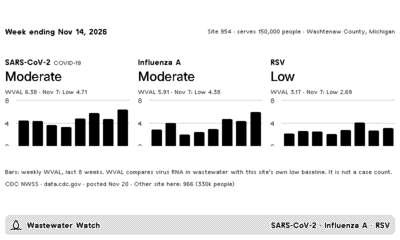
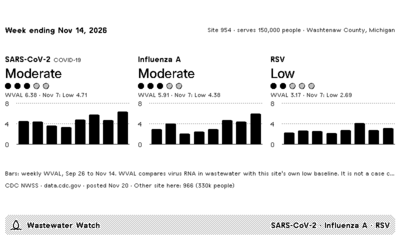
Wastewater Watch: apply TRMNL review fixes (#3)
- State select: exact label/value pairs, and the polling URL turns "_"
  into spaces, so multi-word states (New York, District of Columbia) work.
- X portrait: lg:portrait:value--large on categories, lg:portrait:h--96
  on charts.
- Bars caption: data-clamp-lg="2" so it shows in full on X.
- History is a fixed 8-week window; unreported weeks are empty slots.
- DC place name no longer reads "District of Columbia County".
- Updated previews, added X portrait preview.

Claude-Session: https://claude.ai/code/session_01MHabYTfQa44mtgodQZb3sV

diff --git a/wastewater-watch/transform.js b/wastewater-watch/transform.js
@@ -40,6 +40,7 @@ function dayNum(d) {
   var m = /^(\d{4})-(\d{2})-(\d{2})/.exec(d || "");
   return m ? Math.floor(Date.UTC(+m[1], +m[2] - 1, +m[3]) / 86400000) : NaN;
 }
+function isoDay(n) { return new Date(n * 86400000).toISOString().slice(0, 10); }
 function siteNum(s) { return String(s || "").replace(/^ID:\s*/i, "").trim(); }
 function popFull(p) {
   var n = Math.round(parseFloat(p));
@@ -77,9 +78,10 @@ function transform(input) {
   input = input || {};
   var f = fields(input);
   var county = String(f.county || "Washtenaw").trim();
-  var state = titleCase(String(f.state || "Michigan").trim());
+  var state = titleCase(String(f.state || "Michigan").replace(/_/g, " ").trim());
   var wantSite = siteNum(f.site_id || "");
-  var place = county + (/\b(county|parish|borough)$/i.test(county) ? "" : " County") + ", " + state;
+  var place = county.toLowerCase() === state.toLowerCase() ? state :
+    county + (/\b(county|parish|borough)$/i.test(county) ? "" : " County") + ", " + state;
 
   var t = input.trmnl || {};
   var offset = parseInt((t.user && t.user.utc_offset) || 0, 10) || 0;   // seconds
@@ -138,9 +140,15 @@ function transform(input) {
     var cat = cur ? String(cur.site_wval_category || "").trim() : "";
     var level = LADDER.indexOf(cat.toLowerCase()) + 1;   // 0 = not one of the five levels
     var prev = pr[1] || null;
-    var hist = pr.slice(0, HISTORY_WEEKS).reverse()
-      .filter(function (r) { return r.site_wval !== undefined && r.site_wval !== null && r.site_wval !== ""; })
-      .map(function (r) { return [pretty(r.week_end, false), parseFloat(r.site_wval)]; });
+    // Fixed 8-week calendar window ending at the site's newest week; a week CDC has no value for stays null (an empty slot).
+    var hist = [];
+    for (var k = HISTORY_WEEKS - 1; k >= 0; k--) {
+      var d = isoDay(dayNum(week) - 7 * k), hit = null;
+      pr.forEach(function (r) { if (String(r.week_end).slice(0, 10) === d) hit = r; });
+      var v = hit && hit.site_wval !== undefined && hit.site_wval !== null && hit.site_wval !== "" ? parseFloat(hit.site_wval) : null;
+      hist.push([pretty(d, false), v]);
+    }
+    if (!hist.some(function (h) { return h[1] !== null; })) hist = [];
     out.pathogens.push({
       name: p.name, disease: p.disease,
       has_data: !!cur,
@@ -156,7 +164,7 @@ function transform(input) {
   });
   // One y-axis range for all three history charts.
   var hmax = 0;
-  out.pathogens.forEach(function (p) { p.hist.forEach(function (h) { if (h[1] > hmax) hmax = h[1]; }); });
+  out.pathogens.forEach(function (p) { p.hist.forEach(function (h) { if (h[1] !== null && h[1] > hmax) hmax = h[1]; }); });
   out.hist_max = Math.ceil(hmax || 1);
   out.ok = true;
   return out;

diff --git a/wastewater-watch/README.md b/wastewater-watch/README.md
@@ -2,15 +2,17 @@
 
 Weekly SARS-CoV-2, influenza A and RSV levels in wastewater from one sewage treatment site, from CDC's National Wastewater Surveillance System (NWSS). Shows CDC's Wastewater Viral Activity Level (WVAL) and category (Very Low to Very High), the data week, the population the site serves, and the last 8 weeks.
 
-![TRMNL OG full screen](previews/og-plus-full.png)
+![TRMNL X full screen](previews/trmnl-x-full.png)
+
+More previews: [TRMNL OG](previews/og-plus-full.png), [TRMNL X portrait](previews/trmnl-x-portrait-full.png).
 
 ## Settings
-- **State or territory** and **County**: where to look for treatment sites.
+- **State or territory** and **County**: where to look for treatment sites. Use the county name without "County". For DC, set both to District of Columbia.
 - **Site number** (optional): CDC numbers sites anonymously. Leave blank to use the site with the newest data that serves the most people. The screen lists the other site numbers in your county.
 
 ## How it works
 - TRMNL polls the keyless Socrata dataset [`atcp-73re`](https://data.cdc.gov/resource/atcp-73re.json) on data.cdc.gov. There's no server or cron job.
-- `transform.js` (serverless Node) picks the site, then builds the current levels and the 8-week history.
+- `transform.js` (serverless Node) picks the site, then builds the current levels and the 8-week history. The history is a fixed 8-week window, so a week CDC didn't report shows as an empty bar slot rather than being skipped.
 - CDC updates the dataset on Fridays, and `week_end` is a Saturday. Refresh floor is 240 minutes.
 
 ## What the numbers mean
